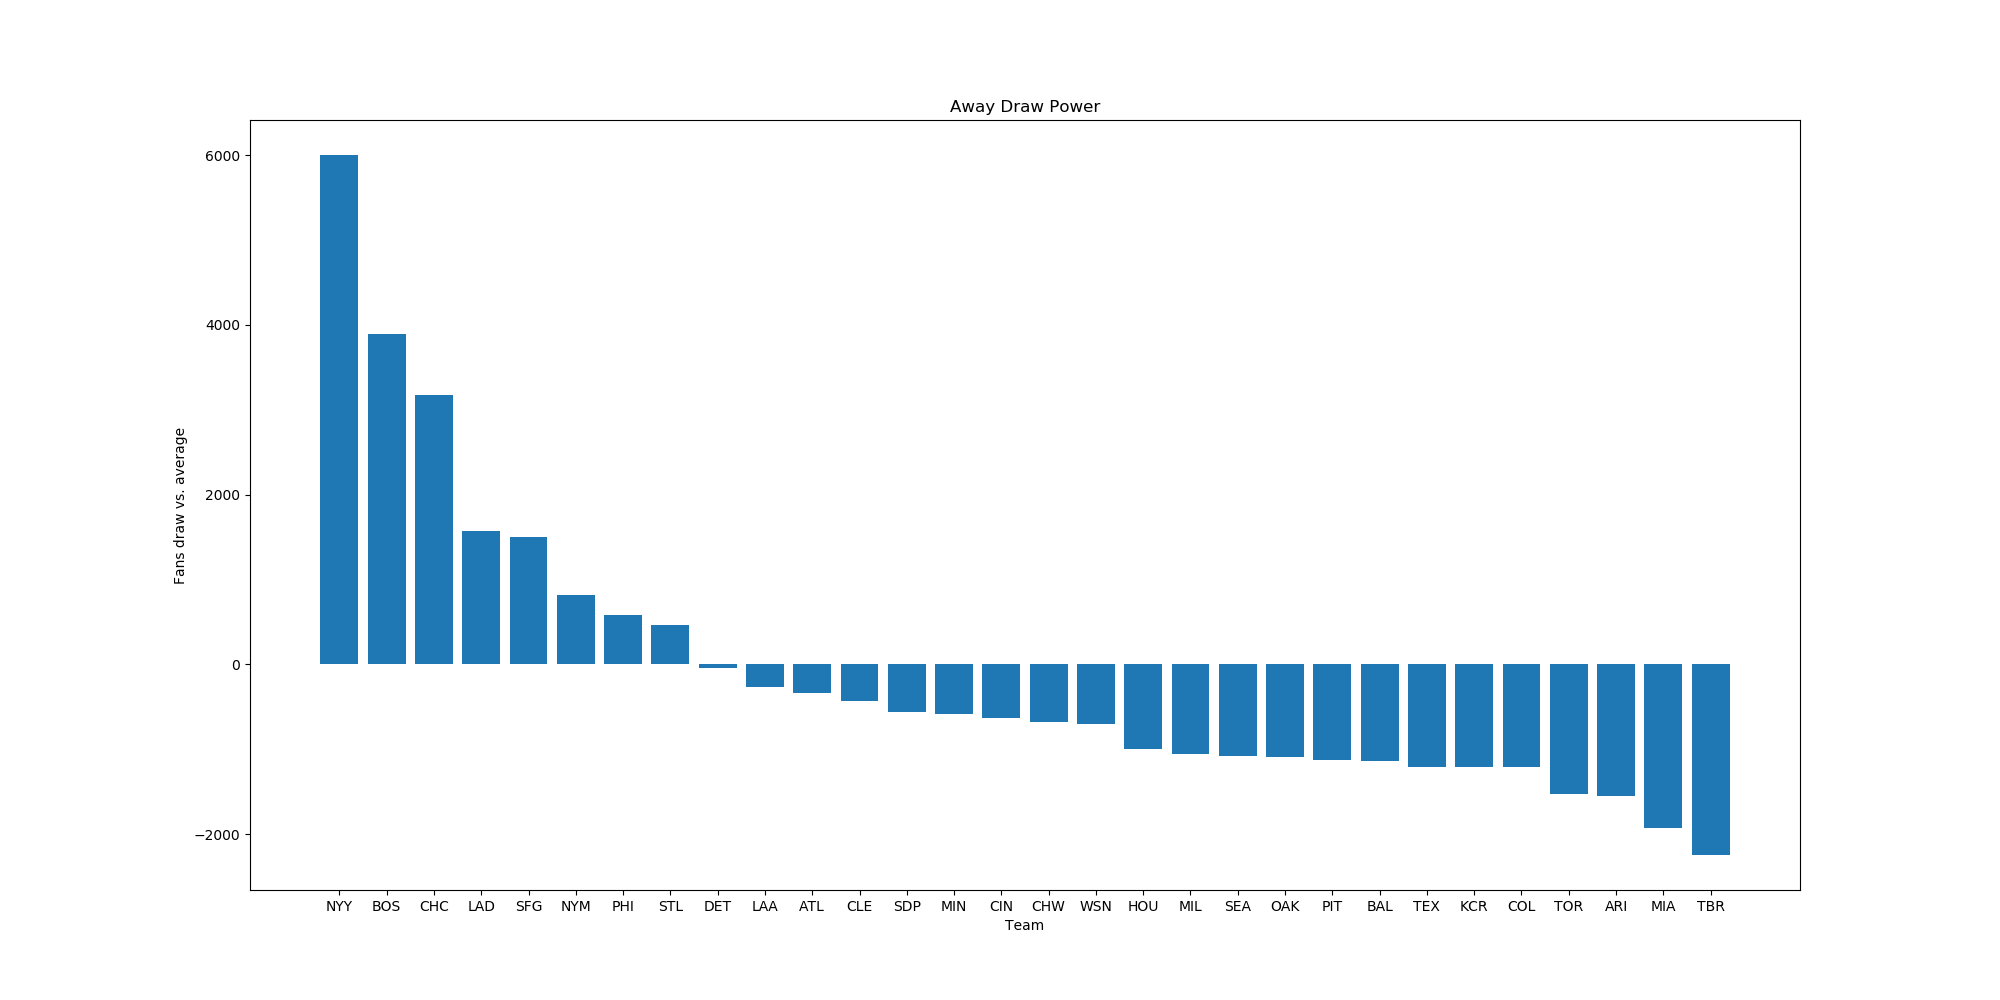
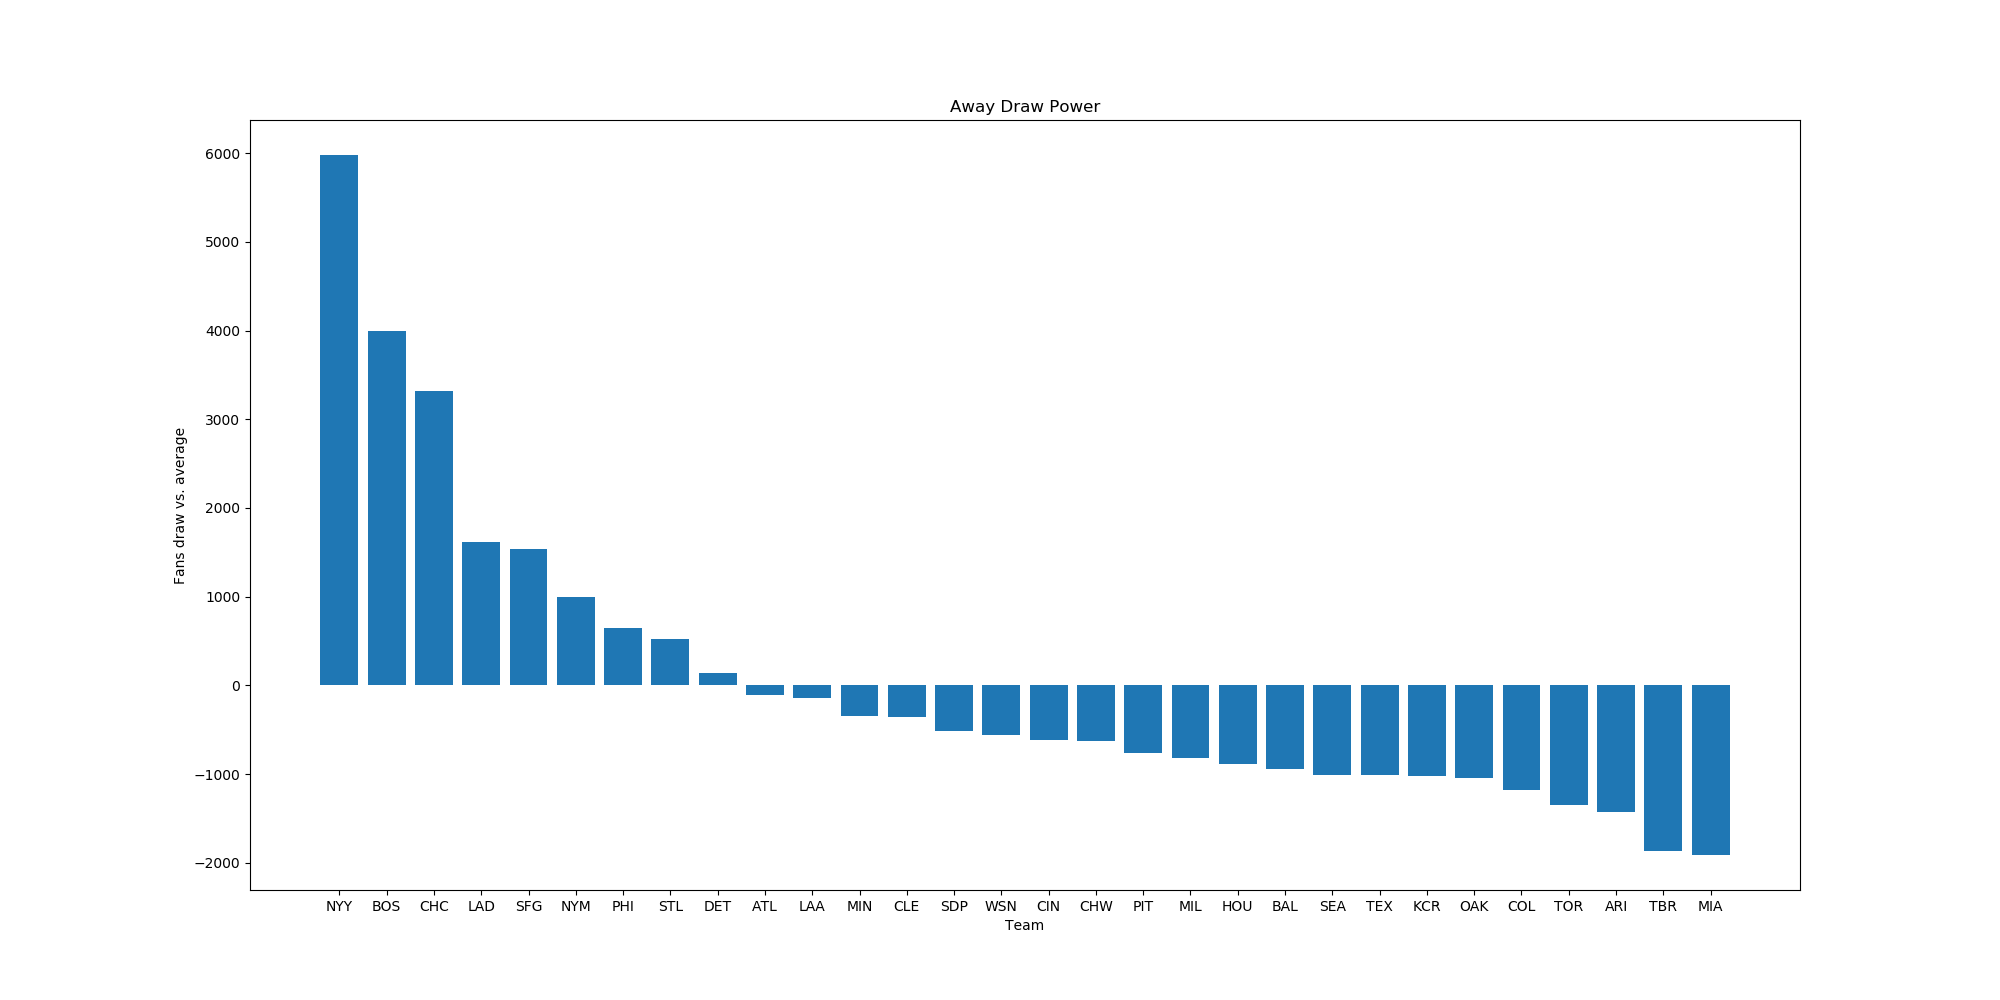
cleaned out records with null attendance values

diff --git a/attendance_analysis.py b/attendance_analysis.py
@@ -35,32 +35,23 @@ city_pop = [2792127, 4268289, 5379176, 2734044, 4588680, 9488493, 9488493, 21229
 There are three teams that have had multiple three letter team IDs.
 If statements align team IDs
 '''
-for i in range(0, len(master_df['Team'])):
+master_df.loc[master_df['Team'] == 'FLA'] = 'MIA'
+master_df.loc[master_df['Home Team'] == 'FLA'] = 'MIA'
+master_df.loc[master_df['Away Team'] == 'FLA'] = 'MIA'
 
-    if master_df['Team'][i] == 'FLA':
-        master_df['Team'][i] = 'MIA'
-    if master_df['Home Team'][i] == 'FLA':
-        master_df['Home Team'][i] = 'MIA'
-    if master_df['Away Team'][i] == 'FLA':
-        master_df['Away Team'][i] = 'MIA'
+master_df.loc[master_df['Team'] == 'ANA'] = 'LAA'
+master_df.loc[master_df['Home Team'] == 'ANA'] = 'LAA'
+master_df.loc[master_df['Away Team'] == 'ANA'] = 'LAA'
 
-    if master_df['Team'][i] == 'ANA':
-        master_df['Team'][i] = 'LAA'
-    if master_df['Home Team'][i] == 'ANA':
-        master_df['Home Team'][i] = 'LAA'
-    if master_df['Away Team'][i] == 'ANA':
-        master_df['Away Team'][i] = 'LAA'
+master_df.loc[master_df['Team'] == 'TBD'] = 'TBR'
+master_df.loc[master_df['Home Team'] == 'TBD'] = 'TBR'
+master_df.loc[master_df['Away Team'] == 'TBD'] = 'TBR'
 
-    if master_df['Team'][i] == 'TBD':
-        master_df['Team'][i] = 'TBR'
-    if master_df['Home Team'][i] == 'TBD':
-        master_df['Home Team'][i] = 'TBR'
-    if master_df['Away Team'][i] == 'TBD':
-        master_df['Away Team'][i] = 'TBR'
 
-'''
-loop calculates total win and win pct columns for final df
-'''
+master_df['Attendance'] = pd.to_numeric(master_df['Attendance'], errors='coerce')
+master_df = master_df.dropna(subset=['Attendance'])
+master_df['Attendance'] = master_df['Attendance'].astype(int)
+
 for team in teams:
     overall_df = master_df[master_df['Team'] == team]
     win_count = len(overall_df[overall_df['Wins'] == 1])
@@ -73,6 +64,7 @@ loop calculating total home attendance and average home attendance/game for each
 '''
 for team in teams:
     home_df = master_df[master_df['Home Team'] == team]
+
     total_attendance = home_df['Attendance'].sum()
     avg_attendance = home_df['Attendance'].mean()
     home_avg_attendance.append(round(avg_attendance,2))
@@ -107,11 +99,11 @@ final_df = {'Team': teams,
             'City Pop': city_pop}
 
 
-for i in range(0,len(final_df['Team'])):
+for i in range(0, len(final_df['Team'])):
     wins_per_season.append(round(final_df['Total Wins'][i]/7, 2))
 
 attendance_per_cap = []
-for i in range(0,len(final_df['Team'])):
+for i in range(0, len(final_df['Team'])):
     attendance_cap = final_df['Fans/yr'][i]/final_df['City Pop'][i]
     attendance_per_cap.append(attendance_cap)
 
@@ -131,7 +123,8 @@ for i in range(0,len(final_df['Team'])):
     base_attendance = final_df['Avg. Home Attendance'][i] - base_attendance
     base_attendances.append(round(base_attendance, 2))
 
-
+final_df = pd.DataFrame(final_df)
+print(final_df.head())
 
 final_df = pd.DataFrame(final_df)
 final_df[['Avg. Home Attendance',
